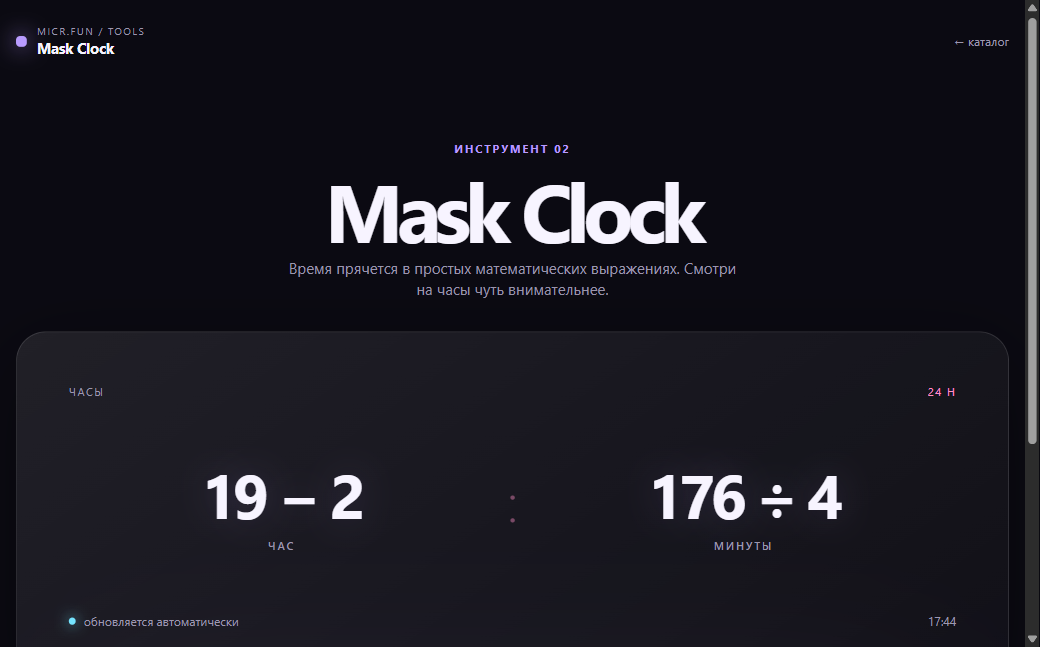
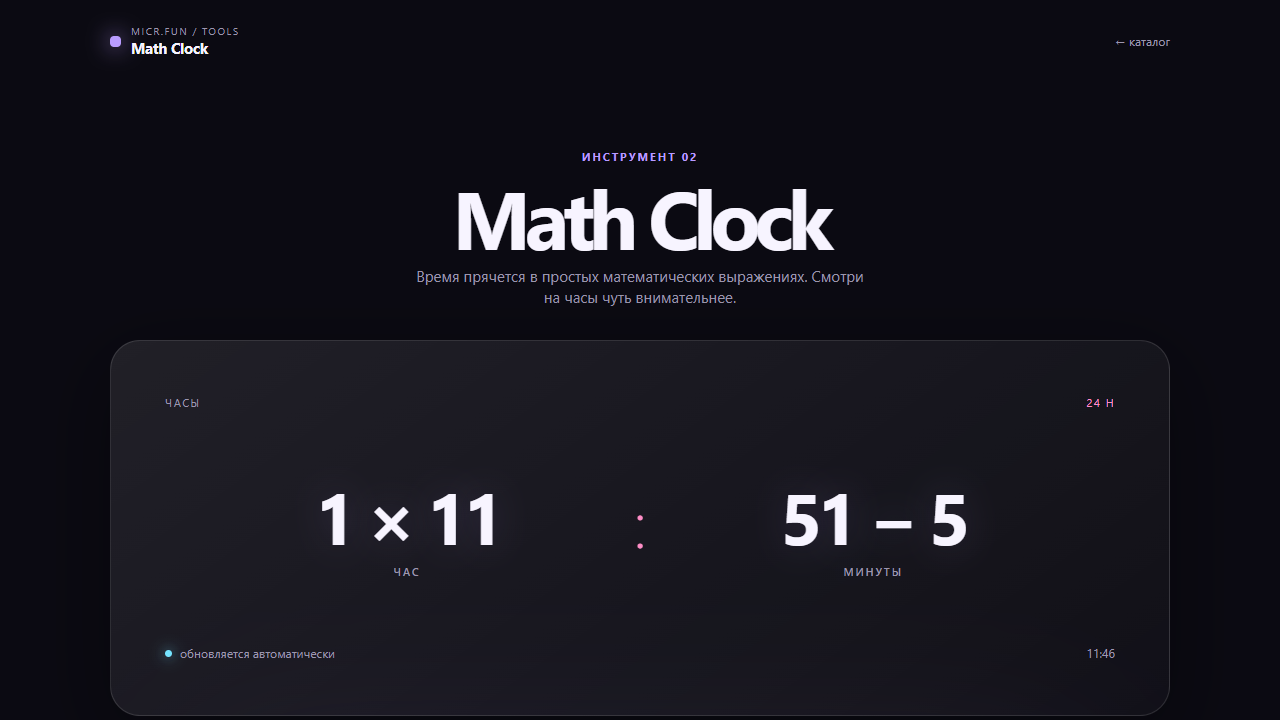
fix(catalog): polish card previews and typography

diff --git a/data/js/catalog-hub.js b/data/js/catalog-hub.js
@@ -13,7 +13,7 @@
   const mascotHost=document.querySelector('[data-micr-mascot]');
   if(mascotHost&&global.MicrMascot)global.__micrMascot=global.MicrMascot.mountMascot(mascotHost,{surface:'hub-home',categoryId:'all'});
   function imageFallback(image){if(image.dataset.fallback!=='1'){image.dataset.fallback='1';image.src=fallback(image.dataset.appId);return;}const missing=document.createElement('span');missing.className='missing-preview';missing.textContent='Превью пока недоступно';image.replaceWith(missing);}
-  function card(id){const app=cells[id],surface=surfaces[id]||{},name=copy(app.title)||id,description=copy(app.description),url=openUrl(app,surface),color=app.color||'#3b82f6';const link=document.createElement('a');link.className='app-card';link.href=url;link.dataset.id=id;link.dataset.category=app.category||'';link.setAttribute('aria-label','Открыть '+name);link.innerHTML='<div class="card-preview"><img src="'+escape(preview(id))+'" alt="Превью: '+escape(name)+'" loading="lazy" data-app-id="'+escape(id)+'"><span class="card-category" style="color:'+escape(color)+'">'+escape(labels[app.category]||app.category||'приложение')+'</span></div><div class="card-content"><h3>'+escape(name)+'</h3><p class="card-desc">'+escape(description)+'</p></div>';link.querySelector('img').addEventListener('error',event=>imageFallback(event.currentTarget));return link;}
+  function card(id){const app=cells[id],surface=surfaces[id]||{},name=copy(app.title)||id,description=copy(app.description),url=openUrl(app,surface),color=app.color||'#3b82f6';const link=document.createElement('a');link.className='app-card';link.href=url;link.dataset.id=id;link.dataset.category=app.category||'';link.setAttribute('aria-label','Открыть '+name);const previewMarkup=surface.preview&&surface.preview.mode==='tile'?'<div class="card-art" aria-hidden="true"><span class="card-art-glyph">'+escape(app.icon||'✦')+'</span><span class="card-art-line"></span></div>':'<img src="'+escape(preview(id))+'" alt="Превью: '+escape(name)+'" loading="lazy" data-app-id="'+escape(id)+'">';link.innerHTML='<div class="card-preview" style="--accent:'+escape(color)+'">'+previewMarkup+'<span class="card-category" style="color:'+escape(color)+'">'+escape(labels[app.category]||app.category||'приложение')+'</span></div><div class="card-content"><h3>'+escape(name)+'</h3><p class="card-desc">'+escape(description)+'</p></div>';const image=link.querySelector('img');if(image)image.addEventListener('error',event=>imageFallback(event.currentTarget));return link;}
   function render(){buttons.forEach(button=>{button.classList.toggle('active',button.dataset.filter===filter);button.style.setProperty('--btn-color',colors[button.dataset.filter]||'#3b82f6');});grid.innerHTML='';const q=query.trim().toLowerCase();const ids=order.filter(id=>cells[id]&&(filter==='all'||cells[id].category===filter)&&(!q||copy(cells[id].title).toLowerCase().includes(q)||copy(cells[id].description).toLowerCase().includes(q)));ids.forEach(id=>grid.appendChild(card(id)));empty.style.display=ids.length?'none':'block';if(global.__micrMascot)global.__micrMascot.setContext({surface:filter==='all'?'hub-home':'hub-category',categoryId:filter,appSlug:null});}
   function load(){return Promise.all([fetch('/data/graph.json').then(response=>response.ok?response.json():null),fetch('/data/surfaces.json').then(response=>response.ok?response.json():null)]).then(([graph,surfaceData])=>{cells=graph&&graph.cells||{};surfaces=surfaceData&&surfaceData.surfaces||{};order=surfaceData&&Array.isArray(surfaceData.hubCatalog)?surfaceData.hubCatalog:Object.keys(cells);order=order.concat(Object.keys(cells).filter(id=>!order.includes(id)));render();}).catch(()=>{cells={};surfaces={};order=[];render();});}
   search&&search.addEventListener('input',event=>{query=event.target.value;render();});buttons.forEach(button=>button.addEventListener('click',()=>{filter=button.dataset.filter||'all';const url=new URL(location.href);if(filter==='all')url.searchParams.delete('category');else url.searchParams.set('category',filter);history.replaceState(null,'',url);render();}));document.addEventListener('langchange',render);global.renderCatalog=render;load();

diff --git a/index.html b/index.html
@@ -364,7 +364,14 @@ body {
   display: flex;
   flex-direction: column;
   overflow: hidden;
+  color: var(--text-primary);
+  text-decoration: none;
 }
+
+.app-card,
+.app-card:hover,
+.app-card:visited,
+.app-card * { text-decoration: none; }
 
 .app-card:hover {
   border-color: var(--border-hover);
@@ -395,6 +402,22 @@ body {
   display: block;
 }
 
+.card-art {
+  position: relative;
+  display: grid;
+  place-items: center;
+  width: 100%;
+  height: 100%;
+  overflow: hidden;
+  background: radial-gradient(circle at 50% 42%, color-mix(in srgb, var(--accent) 24%, transparent), transparent 42%), linear-gradient(135deg, rgba(255,255,255,.035), rgba(255,255,255,.01));
+}
+.card-art::before,
+.card-art::after { content: ''; position: absolute; border: 1px solid rgba(255,255,255,.08); border-radius: 50%; }
+.card-art::before { width: 46%; aspect-ratio: 1; }
+.card-art::after { width: 70%; aspect-ratio: 1; opacity: .45; }
+.card-art-glyph { position: relative; z-index: 1; font-size: clamp(34px, 5vw, 58px); filter: drop-shadow(0 10px 24px rgba(0,0,0,.28)); }
+.card-art-line { position: absolute; width: 32%; height: 1px; bottom: 18%; background: linear-gradient(90deg, transparent, var(--accent), transparent); opacity: .7; }
+
 .missing-preview {
   width: 100%;
   height: 100%;
@@ -407,12 +430,20 @@ body {
   text-align: center;
 }
 
-.card-content { padding: 14px 14px 16px; }
-.card-content h3 { margin: 0; font-size: 16px; font-weight: 650; letter-spacing: -0.02em; }
+.card-content { padding: 15px 16px 17px; }
+.card-content h3 {
+  margin: 0;
+  color: var(--text-primary);
+  font-family: inherit;
+  font-size: 17px;
+  font-weight: 650;
+  line-height: 1.25;
+  letter-spacing: -0.025em;
+}
 .card-category {
   position: absolute;
+  top: 12px;
   left: 12px;
-  bottom: 10px;
   padding: 3px 8px;
   border: 1px solid currentColor;
   border-radius: 999px;
@@ -425,9 +456,11 @@ body {
 .card-desc {
   margin: 7px 0 0;
   padding: 0;
+  font-family: inherit;
   font-size: 13px;
   color: var(--text-secondary);
   line-height: 1.5;
+  letter-spacing: -0.005em;
   display: -webkit-box;
   -webkit-line-clamp: 2;
   -webkit-box-orient: vertical;
